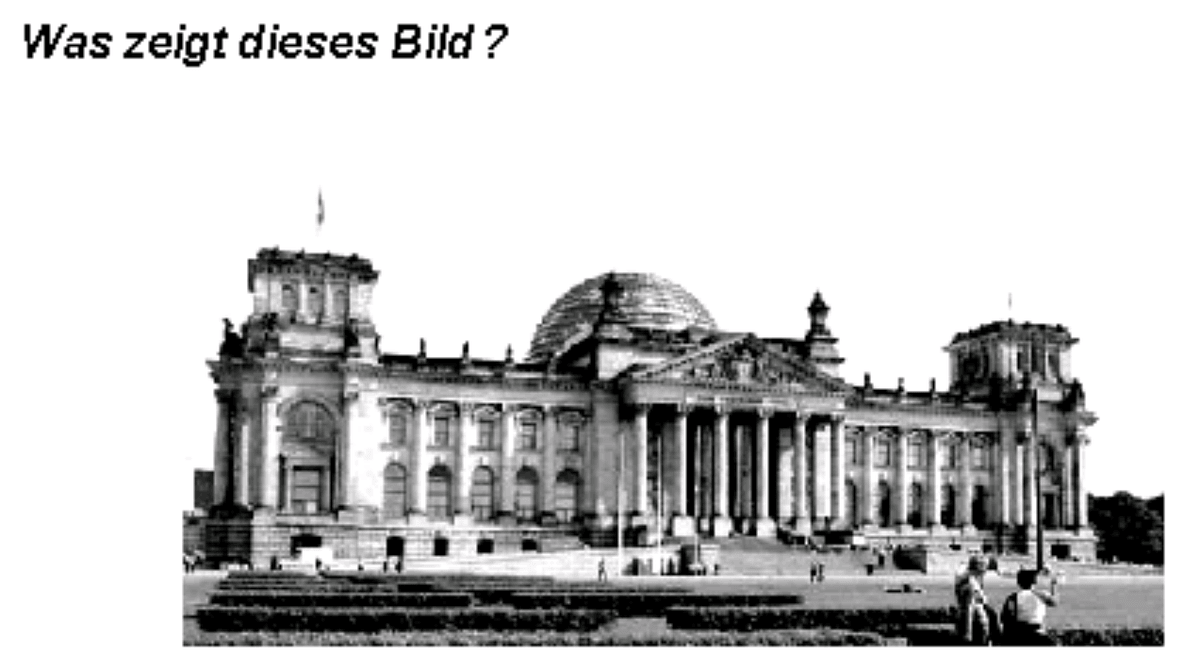
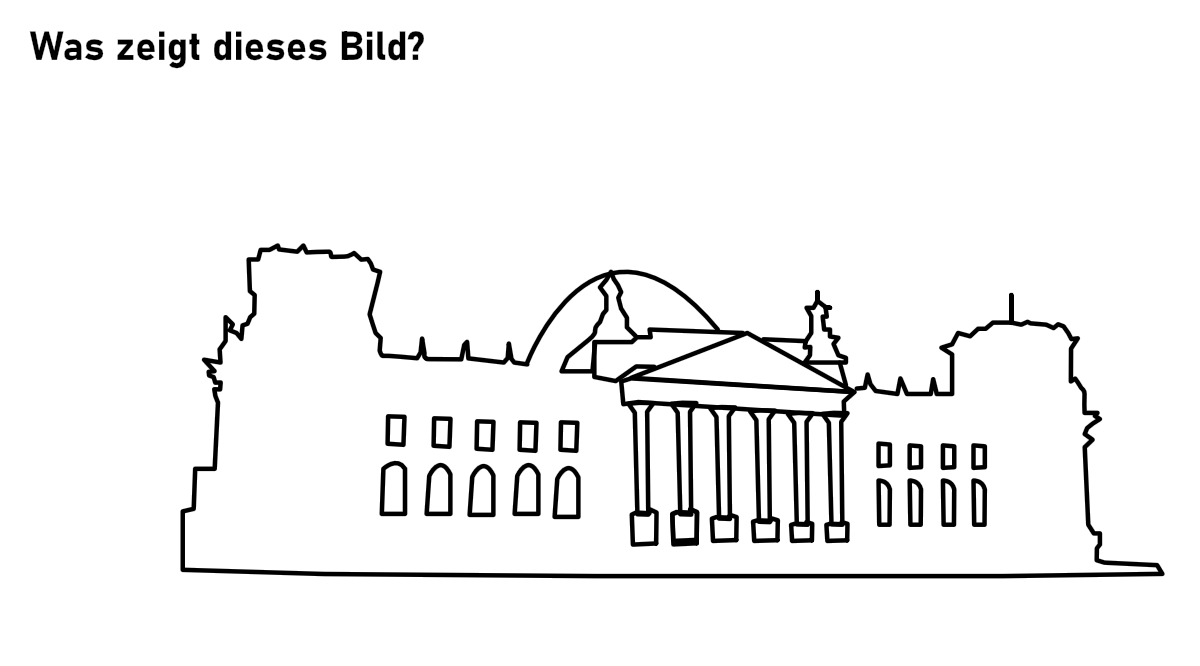
Replace B055 image with corrected redraw

diff --git a/README.md b/README.md
@@ -38,7 +38,7 @@ No web server is required; `data/questions.js`, `data/vocabulary.js` and `data/i
[1 lines of base64/hex data omitted]
   <https://www.bamf.de/SharedDocs/Anlagen/DE/Integration/Einbuergerung/gesamtfragenkatalog-lebenindeutschland.html?nn=284310>
 - **Answers, English translations, explanations and images**: [abdullahbutt/leben-in-deutschland-test](https://github.com/abdullahbutt/leben-in-deutschland-test), version 2026-10-28. **The German question and option wording is taken verbatim from the official BAMF PDF**; the dataset supplies the answer key, English translations, explanations and images. The translations and explanations are licensed under **CC BY-NC 4.0** (attribution, non-commercial use). `data/overrides.json` contains manual corrections for the few items where the dataset described a different paraphrase (e.g. B232, B247, HB02, SN07).
-- **B021 image**: `data/images/21.png` is a redrawn replacement added for this project; the remaining images come from the dataset.
+- **B021 and B055 images**: `data/images/21.png` and `data/images/55.png` are redrawn replacements added for this project; the remaining images come from the dataset.
 - This is an independent learning app, not an official BAMF product. Use is intended for personal, non-commercial exam preparation.
 
 ## Project layout
